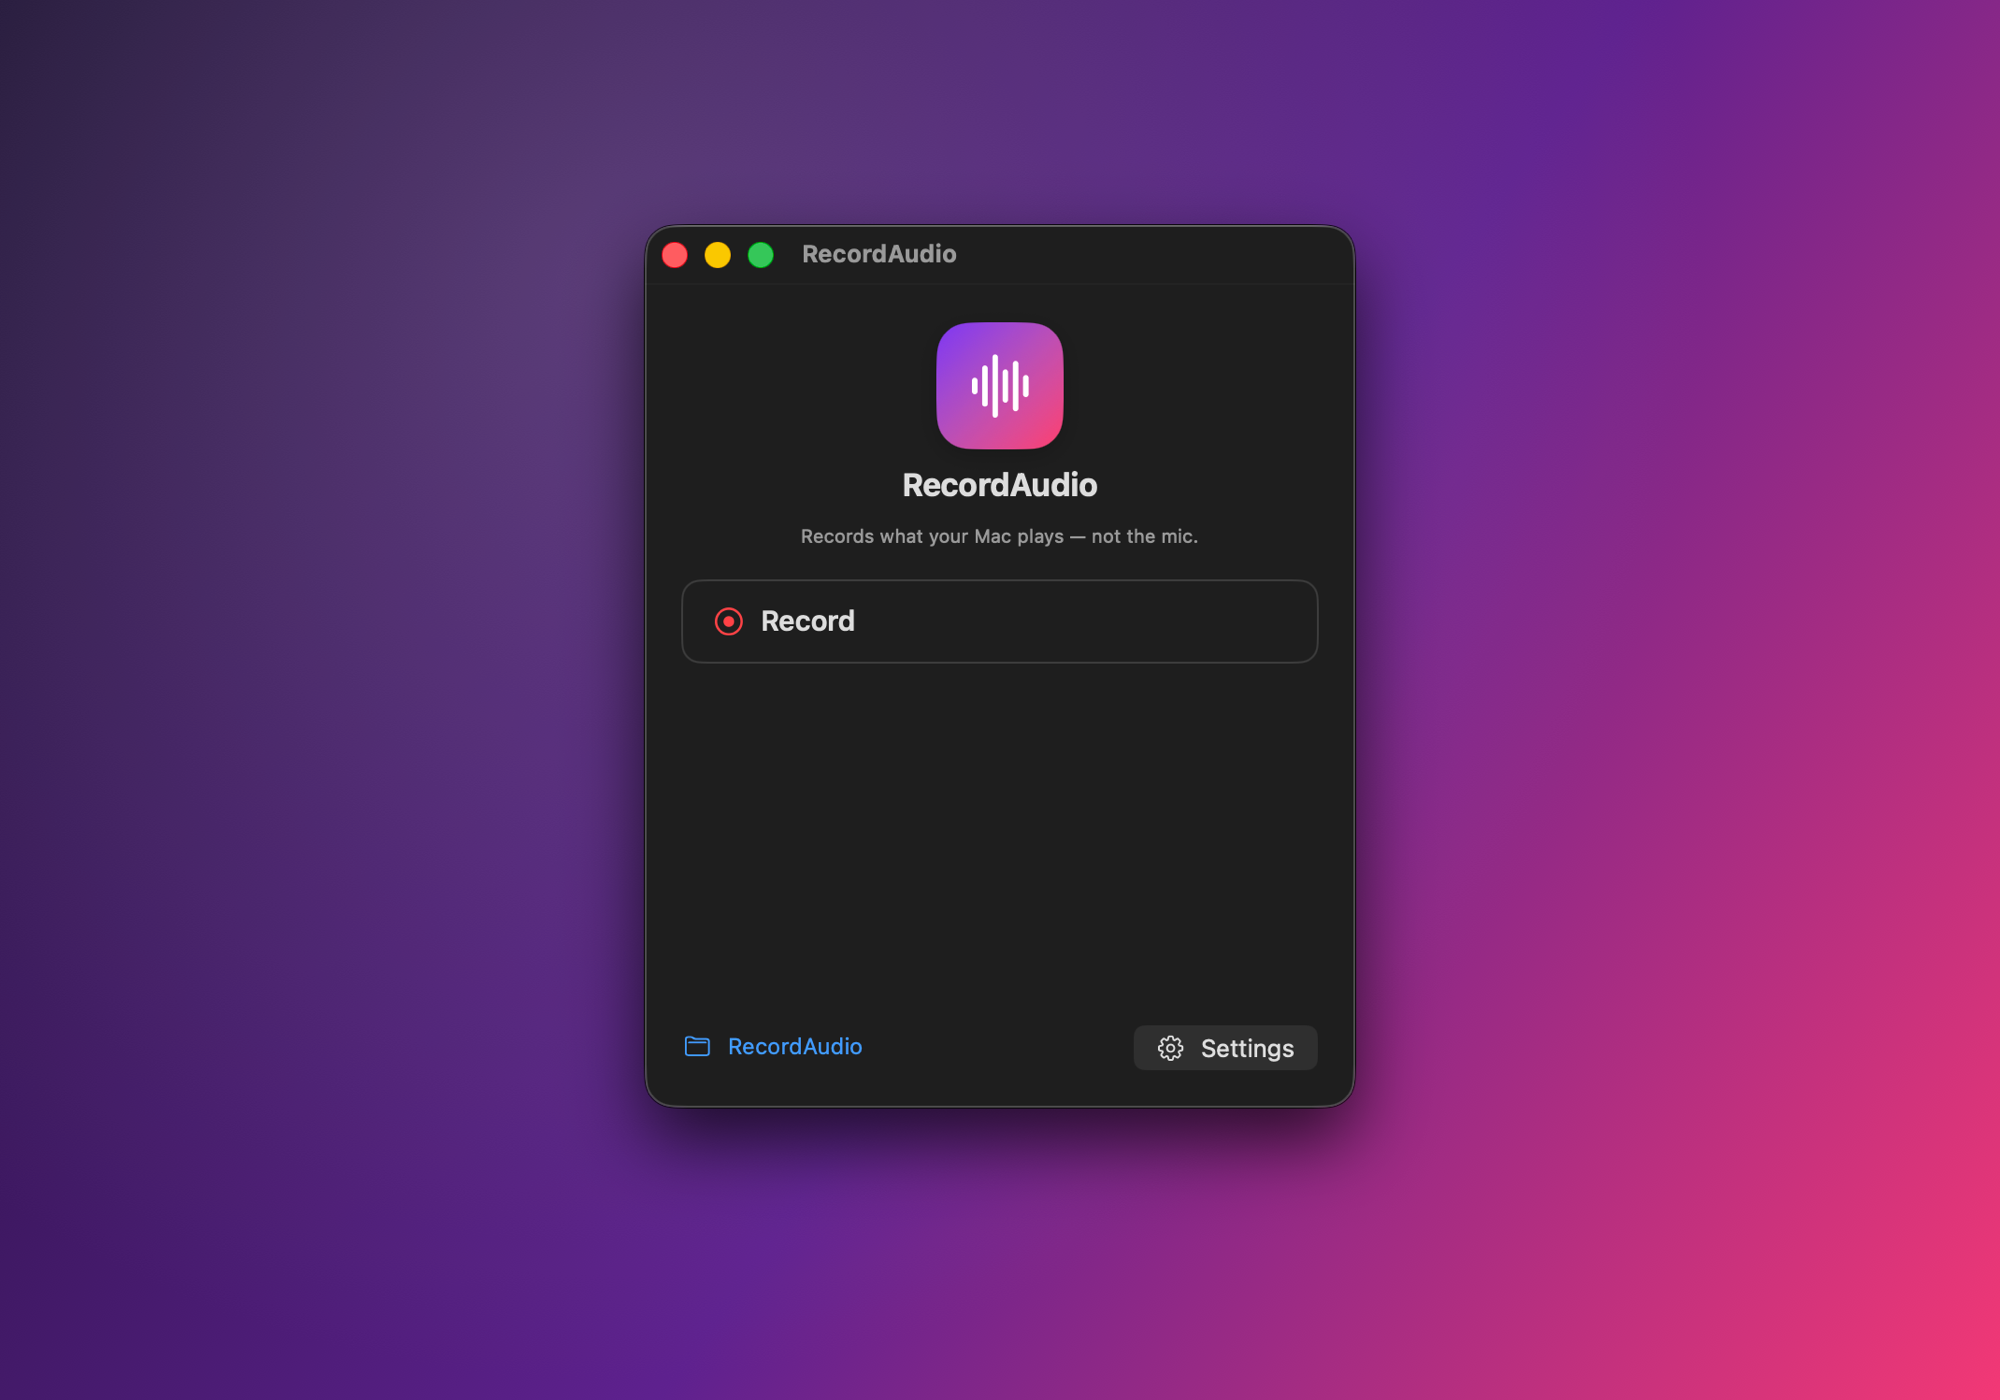
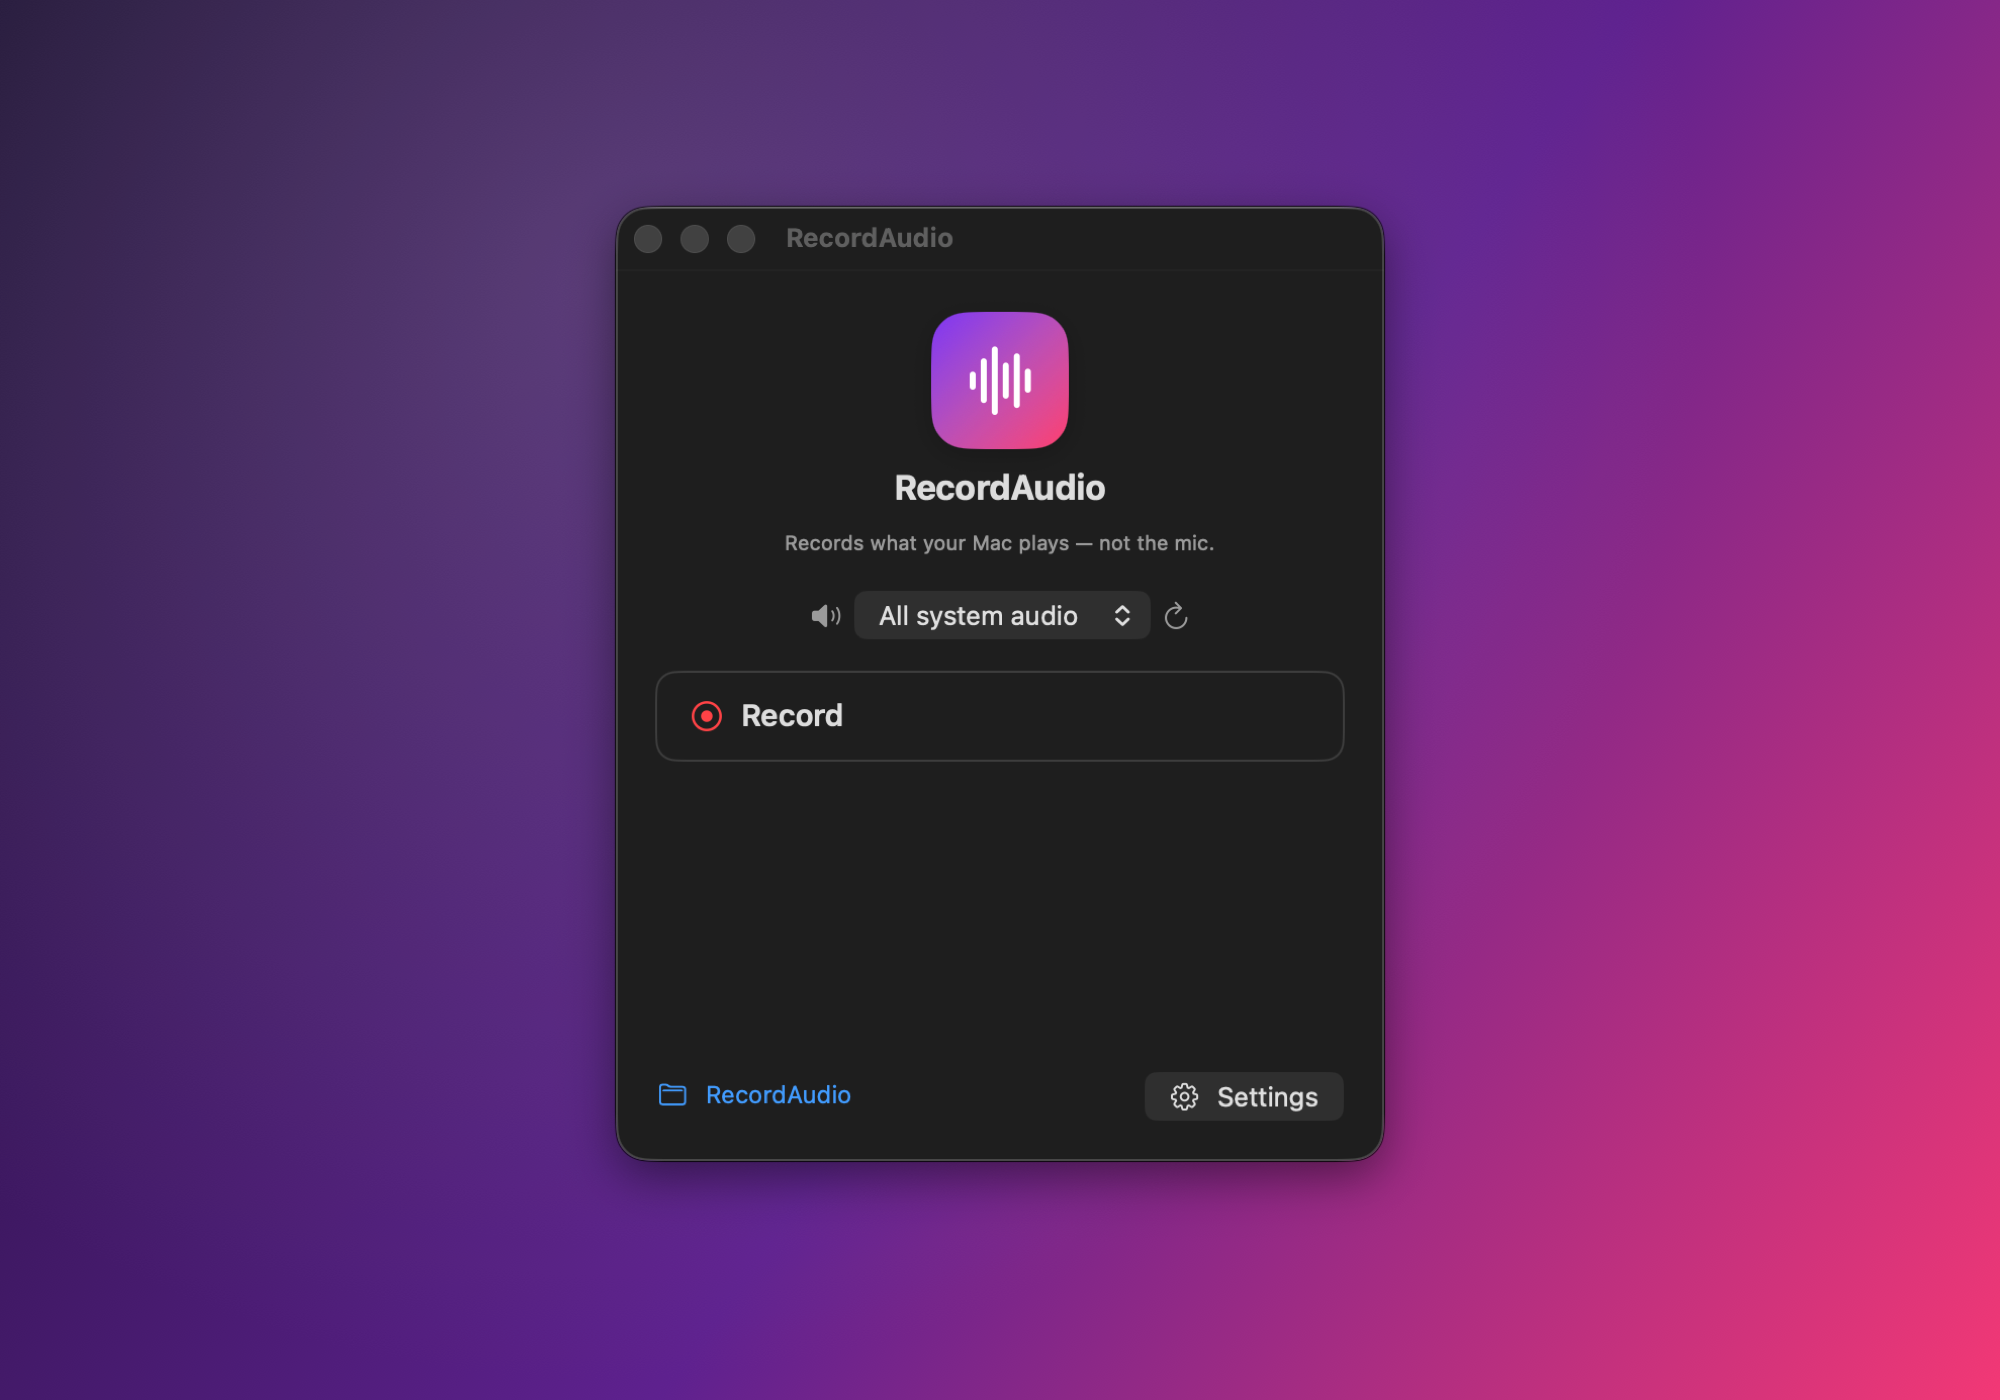
Update mockup for current UI; add GitHub button to landing page

Changed region(s): [[0.31, 0.1229, 0.713, 0.86], [0.403, 0.3379, 0.62, 0.3993], [0.465, 0.215, 0.558, 0.3071]]

diff --git a/docs/index.html b/docs/index.html
@@ -34,13 +34,20 @@
     width:100%;max-width:760px;border-radius:16px;margin:8px auto 36px;display:block;
     filter:drop-shadow(0 30px 60px rgba(0,0,0,.5));
   }
+  .btn-row{display:flex;gap:14px;align-items:center;justify-content:center;flex-wrap:wrap}
   .btn{
     display:inline-flex;align-items:center;gap:10px;
-    background:#fff;color:#141018;text-decoration:none;font-weight:700;font-size:18px;
+    text-decoration:none;font-weight:700;font-size:18px;
     padding:16px 30px;border-radius:14px;transition:transform .12s ease, box-shadow .12s ease;
-    box-shadow:0 10px 30px rgba(0,0,0,.35);
   }
-  .btn:hover{transform:translateY(-2px);box-shadow:0 16px 40px rgba(0,0,0,.45)}
+  .btn:hover{transform:translateY(-2px)}
+  .btn-primary{background:#fff;color:#141018;box-shadow:0 10px 30px rgba(0,0,0,.35)}
+  .btn-primary:hover{box-shadow:0 16px 40px rgba(0,0,0,.45)}
+  .btn-secondary{
+    background:rgba(255,255,255,.08);color:#fff;border:1px solid rgba(255,255,255,.22);
+  }
+  .btn-secondary:hover{background:rgba(255,255,255,.14)}
+  .btn-secondary svg{width:20px;height:20px;fill:#fff}
   .meta{margin-top:16px;opacity:.66;font-size:14px}
   .how{
     margin-top:72px;text-align:left;background:var(--card);border:1px solid var(--line);
@@ -77,10 +84,25 @@
     <img class="shot" src="mockup.png" alt="RecordAudio app window">
 
     <div>
-      <a class="btn" id="download"
-         href="https://github.com/Alyetama/RecordAudio/releases/latest/download/RecordAudio.dmg">
-        ⬇︎ Download for macOS
-      </a>
+      <div class="btn-row">
+        <a class="btn btn-primary" id="download"
+           href="https://github.com/Alyetama/RecordAudio/releases/latest/download/RecordAudio.dmg">
+          ⬇︎ Download for macOS
+        </a>
+        <a class="btn btn-secondary" href="https://github.com/Alyetama/RecordAudio">
+          <svg viewBox="0 0 16 16" aria-hidden="true">
+            <path d="M8 0C3.58 0 0 3.58 0 8c0 3.54 2.29 6.53 5.47 7.59.4.07.55-.17.55-.38
+                     0-.19-.01-.82-.01-1.49-2.01.37-2.53-.49-2.69-.94-.09-.23-.48-.94-.82-1.13
+                     -.28-.15-.68-.52-.01-.53.63-.01 1.08.58 1.23.82.72 1.21 1.87.87 2.33.66
+                     .07-.52.28-.87.51-1.07-1.78-.2-3.64-.89-3.64-3.95 0-.87.31-1.59.82-2.15
+                     -.08-.2-.36-1.02.08-2.12 0 0 .67-.21 2.2.82.64-.18 1.32-.27 2-.27.68 0
+                     1.36.09 2 .27 1.53-1.04 2.2-.82 2.2-.82.44 1.1.16 1.92.08 2.12.51.56.82
+                     1.27.82 2.15 0 3.07-1.87 3.75-3.65 3.95.29.25.54.73.54 1.48 0 1.07-.01
+                     1.93-.01 2.2 0 .21.15.46.55.38A8.01 8.01 0 0 0 16 8c0-4.42-3.58-8-8-8z"/>
+          </svg>
+          View on GitHub
+        </a>
+      </div>
       <div class="meta">Free · MIT-licensed · macOS 13+ · Apple Silicon</div>
     </div>
 